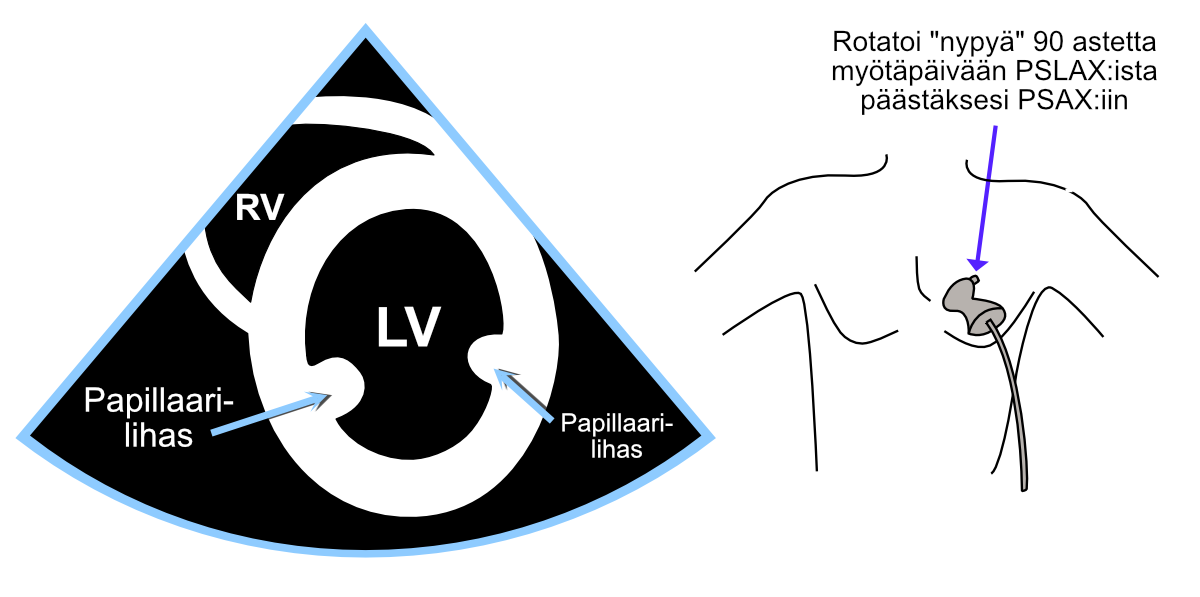
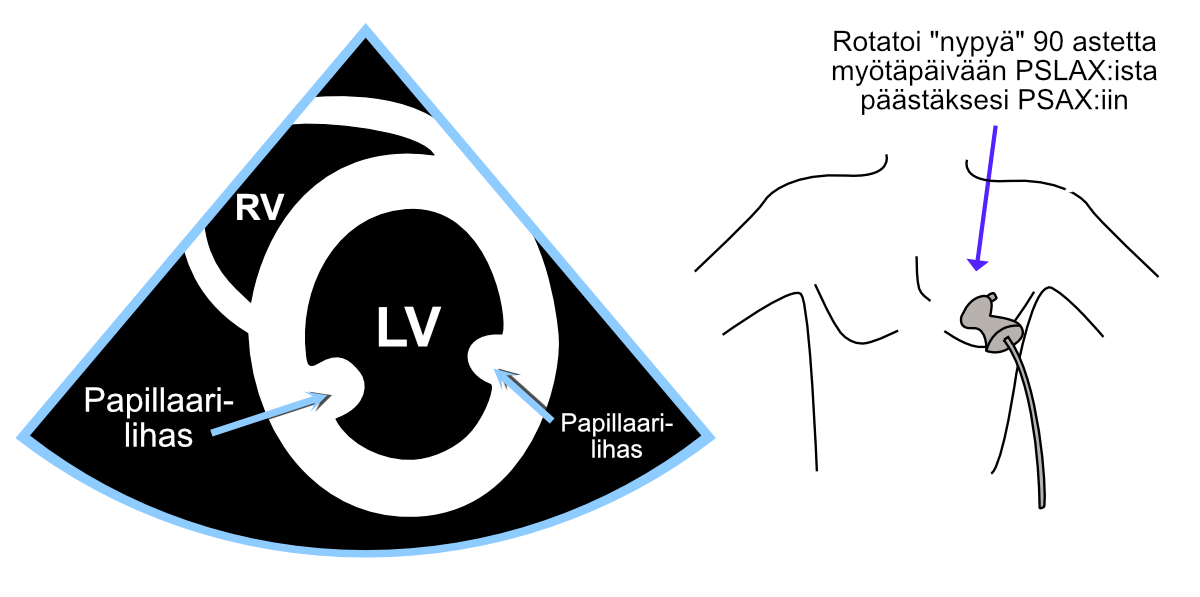
Tilting of PSAX view added.

Changed region(s): [[0.7708, 0.4523, 0.8942, 0.8442]]

diff --git a/book/projektiot.html b/book/projektiot.html
@@ -159,7 +159,7 @@
 <p><br /></p>
 
 <div class="figure"><span style="display:block;" id="fig:pslax"></span>
-<img src="images/pslax.jpg" alt="Parasternaalinen pitkittäisprojektio (PSLAX)." width="100%" />
+<img src="images/pslax2.png" alt="Parasternaalinen pitkittäisprojektio (PSLAX)." width="100%" />
 <p class="caption">
 Figure 3.1: Parasternaalinen pitkittäisprojektio (PSLAX).
 </p>
@@ -168,14 +168,23 @@ Figure 3.1: Parasternaalinen pitkittäisprojektio (PSLAX).
 <div id="psax" class="section level2 hasAnchor" number="3.2">
 <h2><span class="header-section-number">3.2</span> PSAX<a href="projektiot.html#psax" class="anchor-section" aria-label="Anchor link to header"></a></h2>
 <p>Parasternaalinen poikittaisprojektio eli lyhyen akselin projektio (PSAX, parasternal short axis view) saadaan rotatoimalla anturia parasternaalisesta pitkittäisprojektiosta 90 astetta myötäpäivään. Joskus samalla anturin paikkaa pitää hivenen siirtää, jotta saadaan palautetuksi rotaation yhteydessä mahdollisesti hukattu näkyvyys kylkiluiden välistä sydämeen.</p>
-<p>Tästä projektiosta pystyy skannaamaan koko vasemman kammion läpi tilttaamalla (ei siis rotatoimalla!) anturia joko kohti aorttaa (ääriasennossa näkyy poikkileikkaus aorttaläpästä) tai kohti sydämen kärkeä (jolloin näkyy vain vasemman kammion kärki pienen pienenä donitsina).</p>
+<p>Tästä projektiosta pystyy skannaamaan aste asteelta koko vasemman kammion kaikki osat tilttaamalla (ei siis rotatoimalla!) anturia joko kohti aorttaa tai sydämen kärkeä. Ääriasennossa aorttaa kohti tiltatessa nähdään poikkileikkaus aorttaläpästä, ja vastaavasti ääriasennossa kohti sydämen kärkeä tiltatessa nähdään vain vasemman kammion kärki pienenä donitsilta näyttävänä projektiona.</p>
 <p>Alla olevassa kuvassa <a href="projektiot.html#fig:psax">3.2</a> nähdään lyhyen akselin projektio vasemman kammion papillaarilihasten tasolta.</p>
+<p>Alempana näkyvässä kuvassa <a href="projektiot.html#fig:psaxtaivutuksia">3.3</a> esitellään PSAX-projektion eri tilttauksia (rotaatioaste pysyy koko ajan samana eli 90 asteessa myötäpäivään PSLAX:sta katsottuna).</p>
 <p><br /></p>
 
 <div class="figure"><span style="display:block;" id="fig:psax"></span>
 <img src="images/psax2.png" alt="Parasternaalinen lyhyen akselin projektio (PSAX)." width="100%" />
 <p class="caption">
 Figure 3.2: Parasternaalinen lyhyen akselin projektio (PSAX).
+</p>
+</div>
+<p><br /></p>
+
+<div class="figure"><span style="display:block;" id="fig:psaxtaivutuksia"></span>
+<img src="images/psax_taivutuksia.png" alt="Parasternaalisen lyhyen akselin projektion tilttaaminen eri leiketasoille." width="100%" />
+<p class="caption">
+Figure 3.3: Parasternaalisen lyhyen akselin projektion tilttaaminen eri leiketasoille.
 </p>
 </div>
 </div>
@@ -187,9 +196,9 @@ Figure 3.2: Parasternaalinen lyhyen akselin projektio (PSAX).
 <p><br /></p>
 
 <div class="figure"><span style="display:block;" id="fig:a4cturku"></span>
-<img src="images/a4c_and_body_turku2.png" alt="Nelilokerokuva (A4C) Turun malliin." width="100%" />
+<img src="images/a4c_and_body_turku3.png" alt="Nelilokerokuva (A4C) Turun malliin." width="100%" />
 <p class="caption">
-Figure 3.3: Nelilokerokuva (A4C) Turun malliin.
+Figure 3.4: Nelilokerokuva (A4C) Turun malliin.
 </p>
 </div>
 </div>
@@ -199,9 +208,9 @@ Figure 3.3: Nelilokerokuva (A4C) Turun malliin.
 <p><br /></p>
 
 <div class="figure"><span style="display:block;" id="fig:a4cpori"></span>
-<img src="images/a4c_and_body_pori.png" alt="Nelilokerokuva (A4C) Porin malliin." width="100%" />
+<img src="images/a4c_and_body_pori2.png" alt="Nelilokerokuva (A4C) Porin malliin." width="100%" />
 <p class="caption">
-Figure 3.4: Nelilokerokuva (A4C) Porin malliin.
+Figure 3.5: Nelilokerokuva (A4C) Porin malliin.
 </p>
 </div>
 <br/>
